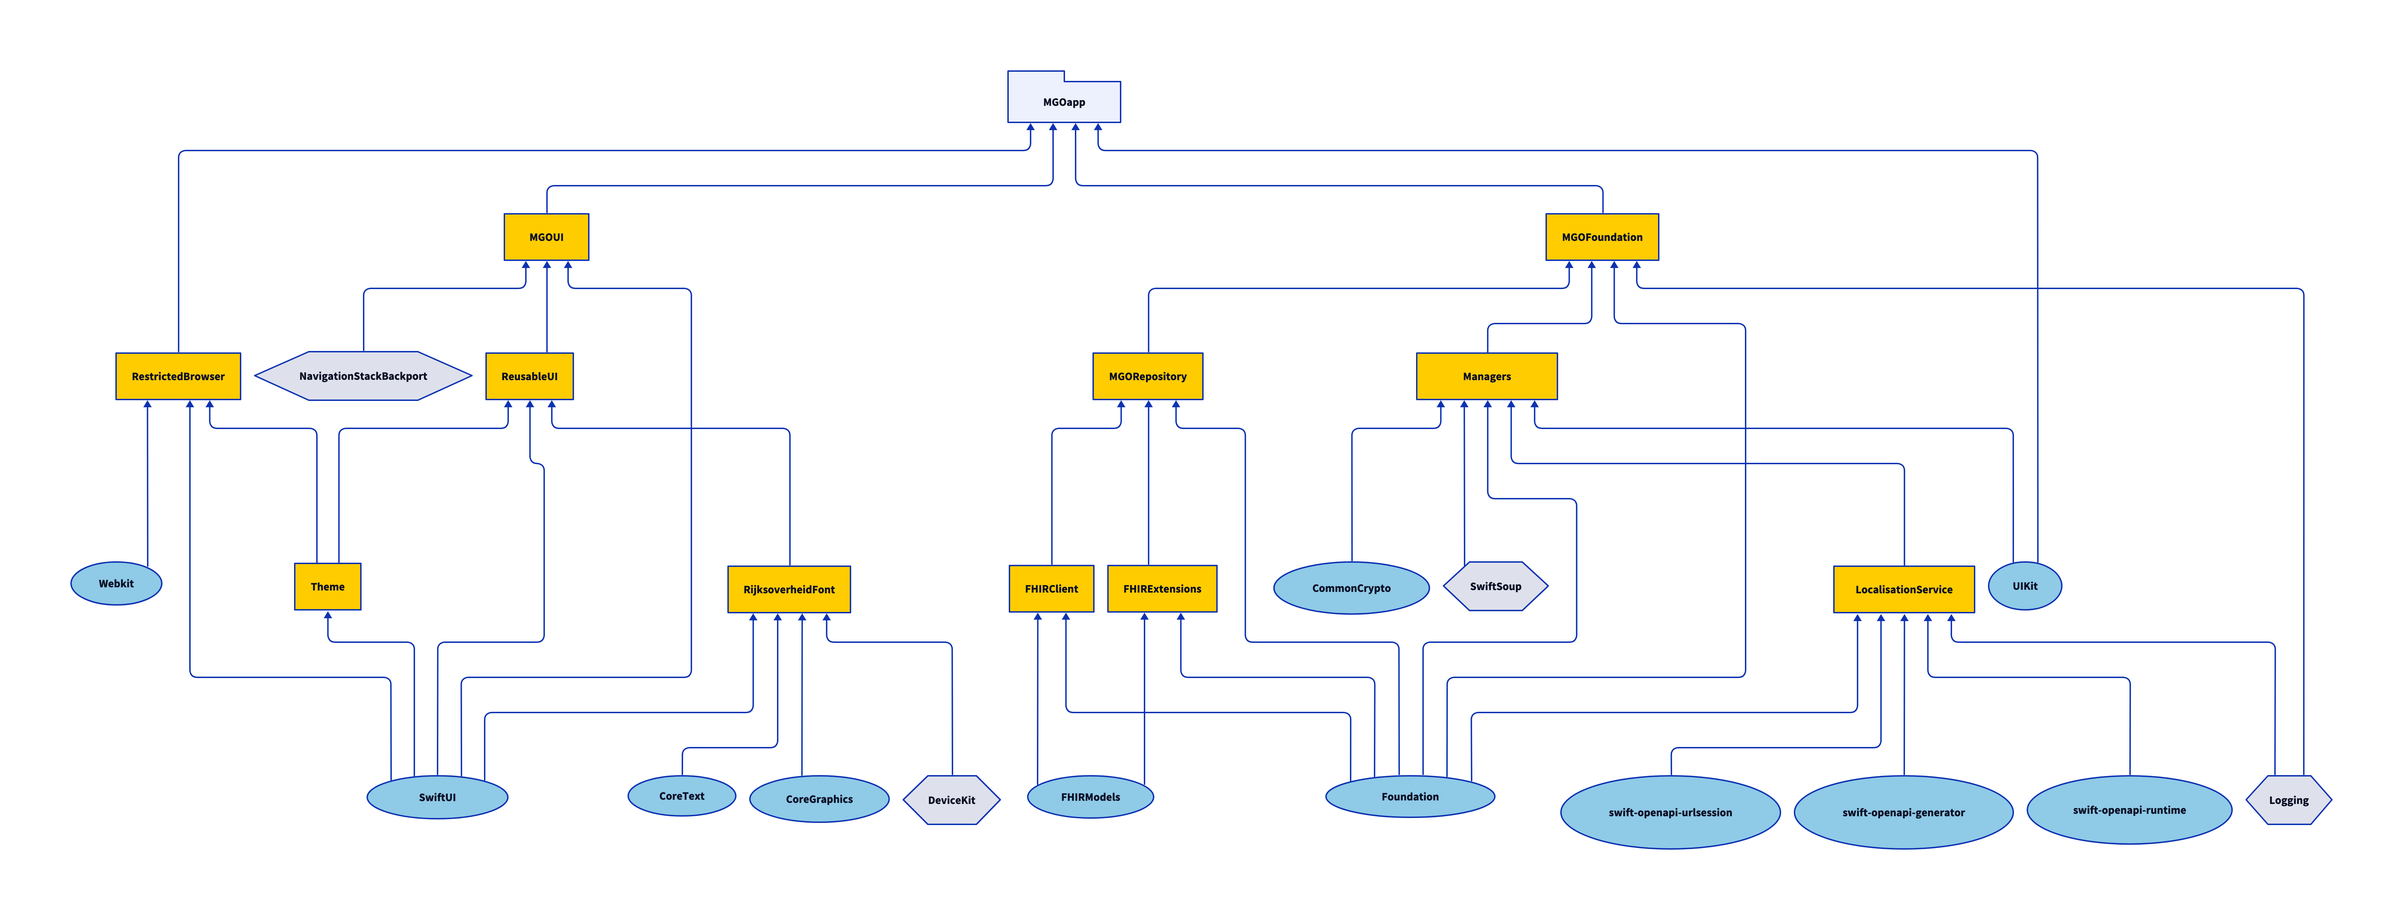
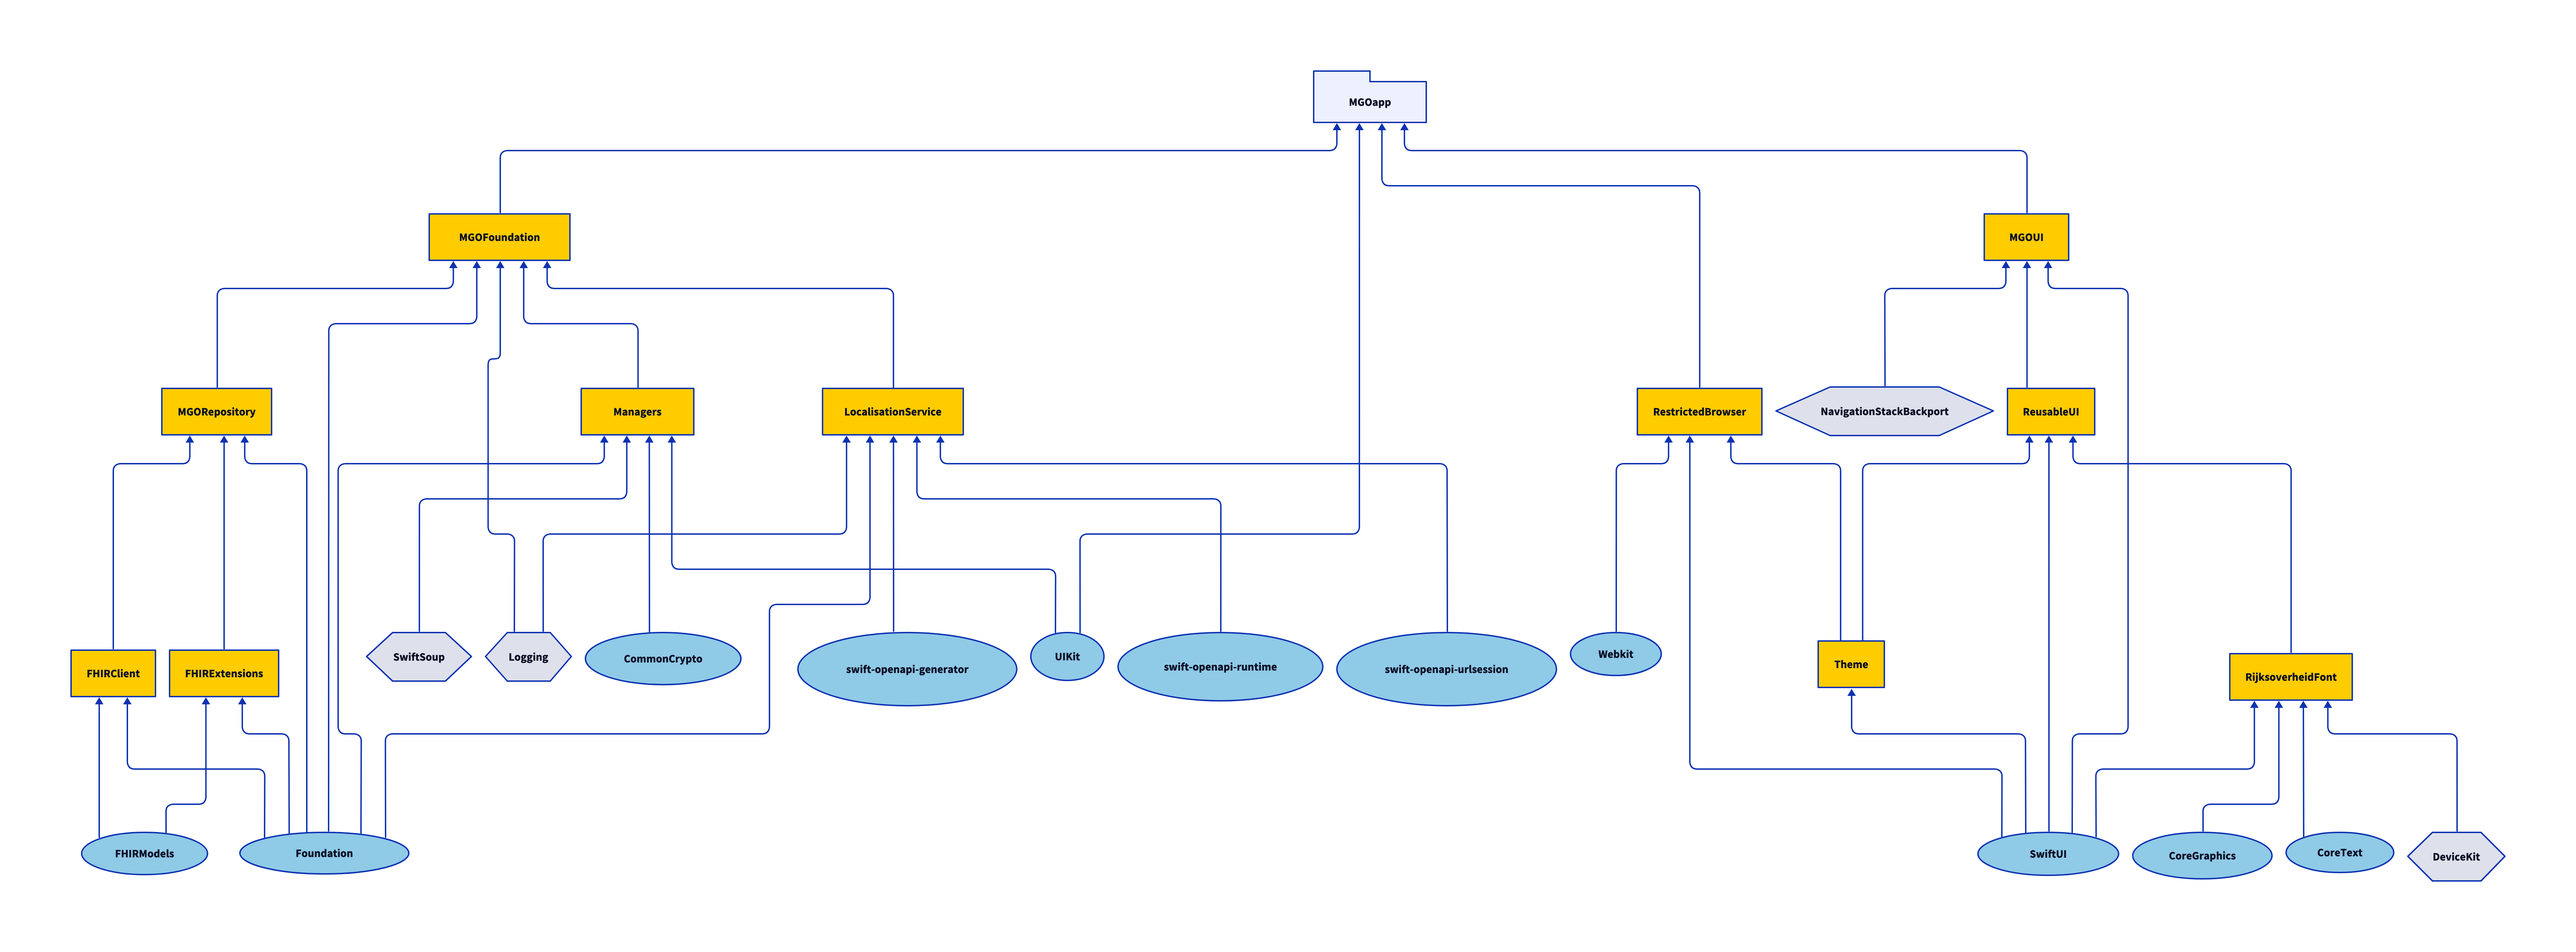
refactor: Move LocationService to MGO Foundation

diff --git a/Packages/MGOFoundation/Package.swift b/Packages/MGOFoundation/Package.swift
@@ -15,6 +15,7 @@ let package = Package(
 	dependencies: [
 		
 		// Internal
+		.package(name: "LocalisationService", path: "../LocalisationService"),
 		.package(name: "Managers", path: "../Managers"),
 		.package(name: "MGORepository", path: "../MGORepository"),
 		
@@ -25,6 +26,7 @@ let package = Package(
 		.target(
 			name: "MGOFoundation",
 			dependencies: [
+				.product(name: "LocalisationService", package: "LocalisationService"),
 				.product(name: "Logging", package: "nl-rdo-app-ios-modules"),
 				.product(name: "Managers", package: "Managers"),
 				.product(name: "MGORepository", package: "MGORepository")

diff --git a/Packages/Managers/Package.swift b/Packages/Managers/Package.swift
@@ -12,8 +12,6 @@ let package = Package(
 			targets: ["Managers"]),
 	],
 	dependencies: [
-		// Internal
-		.package(name: "LocalisationService", path: "../LocalisationService"),
 		
 		// External
 		.package(url: "https://github.com/scinfu/SwiftSoup", exact: "2.7.2"),
@@ -25,7 +23,6 @@ let package = Package(
 		.target(
 			name: "Managers",
 			dependencies: [
-				.product(name: "LocalisationService", package: "LocalisationService"),
 				"SwiftSoup"
 			]
 		),

diff --git a/Packages/MGOFoundation/Sources/MGOFoundation/MGOFoundation.swift b/Packages/MGOFoundation/Sources/MGOFoundation/MGOFoundation.swift
@@ -11,6 +11,7 @@
 // Internal
 @_exported import FHIRExtensions
 @_exported import FHIRClient
+@_exported import LocalisationService
 @_exported import Managers
 @_exported import MGORepository
 

diff --git a/Packages/Managers/Sources/Managers/Managers.swift b/Packages/Managers/Sources/Managers/Managers.swift
@@ -5,4 +5,4 @@
  *  SPDX-License-Identifier: EUPL-1.2
  */
 
-@_exported import LocalisationService
+
